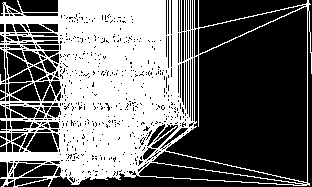
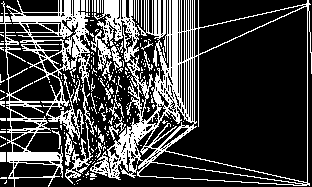
Implemented algorithm to find the connected components in the SWT Image.

diff --git a/TextDetectcpp/Source.cpp b/TextDetectcpp/Source.cpp
@@ -3,6 +3,9 @@
 #include <opencv\cv.h>
 #include <opencv\highgui.h>
 #include <opencv\cxcore.h>
+#include <boost\graph\connected_components.hpp>
+#include <boost\graph\adjacency_list.hpp>
+#include <boost\graph\floyd_warshall_shortest.hpp>
 
 using namespace std;
 
@@ -20,7 +23,13 @@ struct Ray {
 	std::vector<Point2d> points;
 };
 
+void LOG(string message)
+{
+	std::cout << message << endl;
+}
+
 void StrokeWidthMedianFilter(IplImage* SWTImage, std::vector<Ray>& rays);
+std::vector<std::vector<Point2d>> findConnectedComponents(IplImage* SWTImage);
 
 void StrokeWidthTransform(IplImage* edgeImage,
 	                      IplImage* gradientX,
@@ -95,7 +104,7 @@ void StrokeWidthTransform(IplImage* edgeImage,
 							if (acos(G_X * -G_Xq + G_Y *-G_Yq) < PI / 2.0)
 							{
 								//Create the SWT Element
-								float length = ((float)r.q.x - (float)r.p.x) * ((float)r.q.x - (float)r.p.x) +
+								float length = sqrt((float)r.q.x - (float)r.p.x) * ((float)r.q.x - (float)r.p.x) +
 									           ((float)r.q.y - (float)r.p.y) * ((float)r.q.y - (float)r.p.y);
 
 								for (std::vector<Point2d>::iterator pointIterator = points.begin();
@@ -170,6 +179,7 @@ void TextDetection(IplImage* inputImage)
 	// Second Pass
 	StrokeWidthMedianFilter(SWTImage, rays);
 
+	findConnectedComponents(SWTImage);
 	IplImage* tempImage = cvCreateImage(cvGetSize(inputImage), IPL_DEPTH_32F, 1);
 	cvConvertScale(SWTImage, tempImage, 255);
 	cvSaveImage("SWT.png", tempImage);
@@ -200,6 +210,104 @@ void StrokeWidthMedianFilter(IplImage* SWTImage, std::vector<Ray>& rays)
 		{
 			CV_IMAGE_ELEM(SWTImage, float, point->y, point->x) = std::min(medianSWTValue, point->SWT);
 		}
+	}
+}
+
+std::vector<std::vector<Point2d>> findConnectedComponents(IplImage* SWTImage)
+{
+	std::map<int, int> imageMap;
+	std::map<int, Point2d> reverseImageMap;
+	//First Step: No. the vertices in the image to form a graph
+	for (int row = 0; row < SWTImage->height; row++)
+	{
+		float* pixelPtr = (float*)(SWTImage->imageData + row * SWTImage->widthStep);
+		int counter = 0;
+		for (int col = 0; col < SWTImage->width; col++)
+		{
+			if (*pixelPtr > 0)
+			{
+				imageMap[row * SWTImage->width + col] = counter;
+				Point2d p;
+				p.x = col;
+				p.y = row;
+				reverseImageMap[counter] = p;
+				counter++;
+			}
+			pixelPtr++;
+		}
+
+		boost::adjacency_list<boost::vecS, boost::vecS, boost::undirectedS> graph(counter);
+
+		for (int row = 0; row < SWTImage->height; row++)
+		{
+			float* pixelPtr = (float*)(SWTImage->imageData + row * SWTImage->width);
+			for (int col = 0; col < SWTImage->width; col++)
+			{
+				float lastSW = 0;
+				if (*pixelPtr > 0)
+				{
+					int currentPixel = imageMap[row * SWTImage->width + col];
+					if (col + 1 < SWTImage->width)
+					{
+						float currentValue = CV_IMAGE_ELEM(SWTImage, float, col + 1, row);
+						if (currentValue > 0 && !(*pixelPtr / currentValue > 3.0) && !(currentValue / *pixelPtr > 3.0))
+						{
+							boost::add_edge(currentPixel, imageMap[row * SWTImage->width + col + 1], graph);
+						}
+					}
+
+					if (col + 1 < SWTImage->width && row + 1 < SWTImage->height)
+					{
+						float currentValue = CV_IMAGE_ELEM(SWTImage, float, col + 1, row + 1);
+						if (currentValue > 0 && !(*pixelPtr / currentValue > 3.0) && !(currentValue / *pixelPtr > 3.0))
+						{
+							boost::add_edge(currentPixel, imageMap[(row + 1) * SWTImage->width + col + 1], graph);
+						}
+					}
+
+					if (row + 1 < SWTImage->height)
+					{
+						float currentValue = CV_IMAGE_ELEM(SWTImage, float, col, row + 1);
+						if (currentValue > 0 && !(*pixelPtr / currentValue > 3.0) && !(currentValue / *pixelPtr > 3.0))
+						{
+							boost::add_edge(currentPixel, imageMap[(row + 1) * SWTImage->width + col], graph);
+						}
+					}
+
+					if (col - 1 > 0 && row + 1 < SWTImage->height)
+					{
+						float currentValue = CV_IMAGE_ELEM(SWTImage, float, col - 1, row + 1);
+						if (currentValue > 0 && !(*pixelPtr / currentValue > 3.0) && !(currentValue / *pixelPtr > 3.0))
+						{
+							boost::add_edge(currentPixel, imageMap[(row + 1) * SWTImage->width + col - 1], graph);
+						}
+					}
+				}
+				pixelPtr++;
+			}
+
+			std::vector<int> c(counter);
+			int componentCount = boost::connected_components(graph, &c[0]);
+			std::vector<std::vector<Point2d>> connectedComponents(componentCount);
+			LOG("before filtering: " + to_string(componentCount) + " components and " + to_string(counter) + " vertices");
+
+			for (int i = 0; i < componentCount; i++)
+			{
+				std::vector<Point2d> temp;
+				connectedComponents.push_back(temp);
+			}
+
+			for (int i = 0; i < counter; i++)
+			{
+				std::vector<Point2d> currentComponent = connectedComponents[c[i]];
+				Point2d currentPoint = reverseImageMap[i];
+				currentComponent.push_back(currentPoint);
+			}
+
+			return connectedComponents;
+
+		}
+
 	}
 }
 
